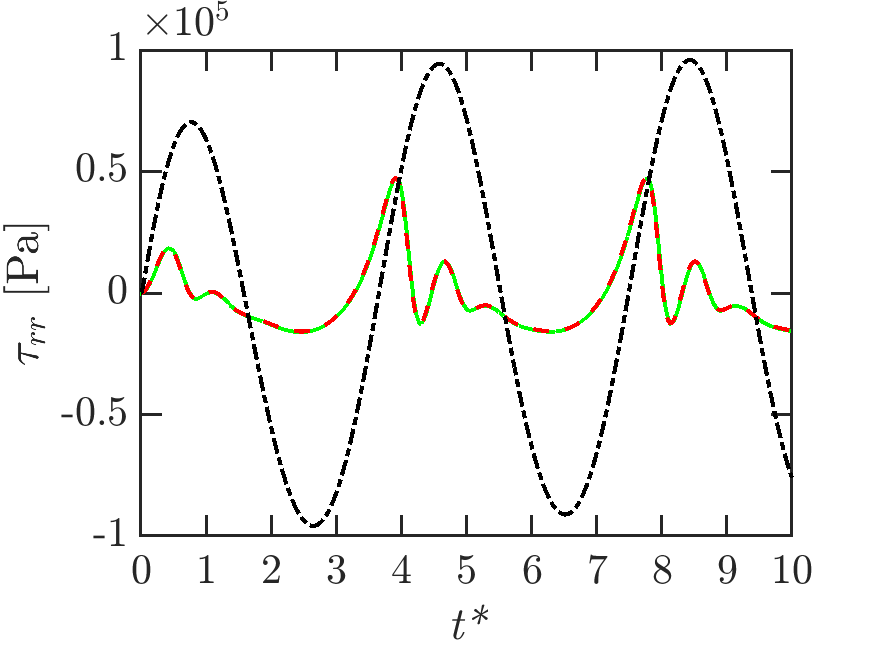
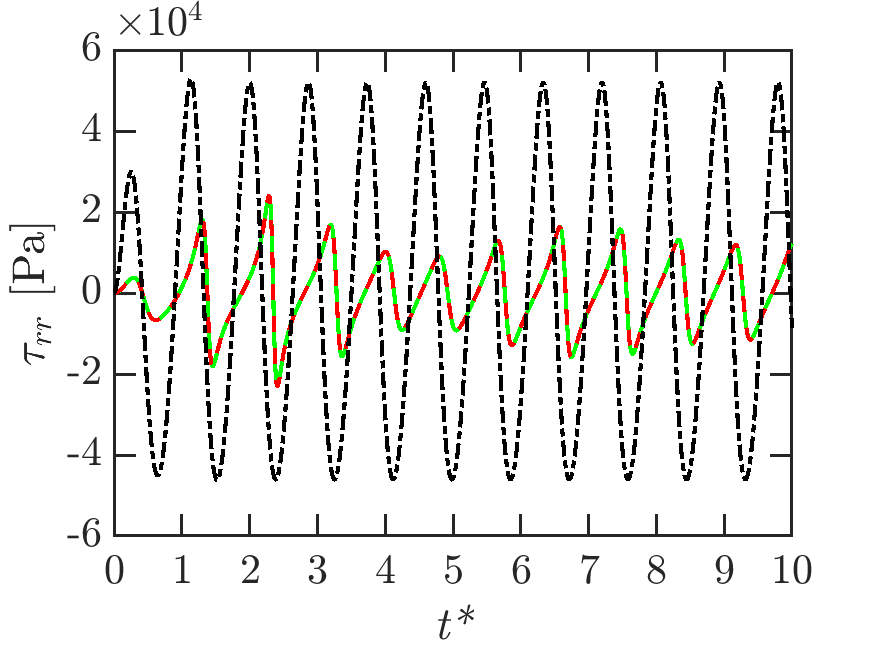
added the stress integral to account for the non-Newtonian behavior, not yet operational

diff --git a/bubblewall_main.m b/bubblewall_main.m
@@ -1,18 +1,18 @@
 clear; close all; clc;
 %INPUT PARAMETERS
-Ro_w=1E-6;                              % initial bubble radius = 1E-6  
+Ro_w=8E-6;                              % initial bubble radius = 1E-6  
 Sd=0.072;                               % surface tension                
 po=101325;                              % atmospheric pressure = 101325
 pv=2300;                                % pressure of vapor          
 rho=1000;                               % density of liquid = 1000      
 c=1500;                                 % speed of sound 
-kappa = 1.0;                          % ratio of specific heats
+kappa = 1.4;                          % ratio of specific heats
 omegan = (1/(2*pi*Ro_w))*sqrt((3*kappa*(po-pv)+(3*kappa-1)*(2*Sd)/Ro_w)/rho);
 tRC = 1/omegan;                         % natural period
 tmag = 10;
 tfinal=tmag*tRC;                          % final time of simulation
-deltap = 0.1E6;                         % amplitude of wave
-f = 1E6;%1/tRC;                              % driving frequecy
+deltap = 5E4;                         % amplitude of wave
+f = 5E5;%1/tRC;                              % driving frequecy
 shearmodulus = 0;                       % shear modulus of the surounding material
 mu_water = 8.9*10E-4;                   % viscosity of water
 Ca = (rho*c*c)/shearmodulus;            % shear modulus of soft material 
@@ -34,7 +34,7 @@ vmaterial = 'mu_inf';
     c,tfinal,force,rmodel,emodel,vmodel,vmaterial);
 lm = 'g-';
 figplot;
-% f3plot
+
 %Blood
 vmaterial = 'lsq_blood';
 [Tout,Rout,Rddot]=bubblewall_solver(Ro_w,deltap,kappa,f,We_w,Ca,rho,po,pv,...
@@ -42,8 +42,9 @@ vmaterial = 'lsq_blood';
 lm = 'r--';
 figplot;
 ffield;
+
 %blood 0
-vmaterial = 'mu_knot';
+vmaterial = 'mu_0';
 [Tout,Rout,Rddot]=bubblewall_solver(Ro_w,deltap,kappa,f,We_w,Ca,rho,po,pv,...
     c,tfinal,force,rmodel,emodel,vmodel,vmaterial);
 lm = 'k-.';

diff --git a/bubblewall_solver.m b/bubblewall_solver.m
@@ -19,7 +19,7 @@ function [Tout,Rout,Rddot] = bubblewall_solver(R_eqd,deltap,kappa,f,...
     r_dt=0;%(pv-po)/(rho*c);       % ICs: initial velocity
     r_initial=[Ro_eq r_dt];     % ICs: initial radius 
     t_span=[0 tf];              % TIME
-    options = odeset('MaxStep', tfinal/1E4,'AbsTol',1E-9);
+    options = odeset('MaxStep', tfinal/1E3,'AbsTol',1E-9);
     % Solving the System of ODEs
     [Tout,Rout]=ode23tb(@(t,r) bubblewall(t,r,eta,k,xi,rho,Ro_eq,...
             S,deltap,f,po,pv,pGo,force,emodel,vmodel,vmaterial),...
@@ -60,7 +60,13 @@ function [ dRdT2 ] = bubblewall_Rddot(t,r,eta,k,xi,rho,Req,S,deltap,f,...
     INE = (-3/2)*(1-r2.*xi/3).*r2s;
     PINF = (1+r2*xi).*((pv-pinfy)/rho);
     PGO = (1+(-3*k+1)*r2*xi).*(pGo/rho).*((Ro./r1).^(3*k));
-    VIS = -4*nu.*r2./r1;%(-4*nu*r2)/r1;
+    if (strcmp('mu_inf',vmaterial) == 1)
+        VIS = -4*nu.*r2./r1;
+    elseif (strcmp('mu_0',vmaterial) == 1)
+        VIS = -4*nu.*r2./r1;
+    else
+        VIS = -vis(r2,r1)/rho;%-4*nu.*r2./r1;%(-4*nu*r2)/r1;
+    end
     SUR = -2*S./(rho.*r1);
     DPA=-((r1/rho)*xi).*pa(t,f,deltap,force);
     % GO THROUGH THE MATH AND SHOW ME THAT YOU CAME UP WITH THESE RESULTS  
@@ -96,4 +102,22 @@ function p = pinf(t,f,deltap,force)
  elseif strcmp('mono',force)==1
      p = deltap;
  end     
+end
+
+function S = vis(Rdot,R)
+	mu_inf = 0.00345; 
+	mu_o = 0.056; 
+    lambda = 5.607570991983291;
+    nc = 0.383559338674208;
+    S = [];
+    for i = 1:length(R)
+        S(i) = 4*mu_inf*Rdot(i)./R(i)+...
+            integral(@(r) carreautau(r,Rdot(i),R(i),lambda,...
+            nc,mu_o,mu_inf),R(i),Inf);
+    end
+end
+
+function tau = carreautau(r,Rdot,R,lambda,nc,mu_o,mu_inf)
+    tau = (12*(Rdot.*R.^2)./r.^4).*(mu_o-mu_inf).*(1+...
+        lambda.^2.*(4.*Rdot.^2.*R.^4./r.^6)).^((nc-1)/2);
 end

diff --git a/carreau.m b/carreau.m
@@ -4,7 +4,7 @@ function [mu] = carreau(vmaterial,gammadot)
     if strcmp('water',vmaterial)==1
         mu = 8.9*10E-4;
         
-    elseif strcmp('mu_knot', vmaterial) == 1
+    elseif strcmp('mu_0', vmaterial) == 1
         mu = mu_o; 
         
     elseif strcmp('mu_inf', vmaterial) == 1
